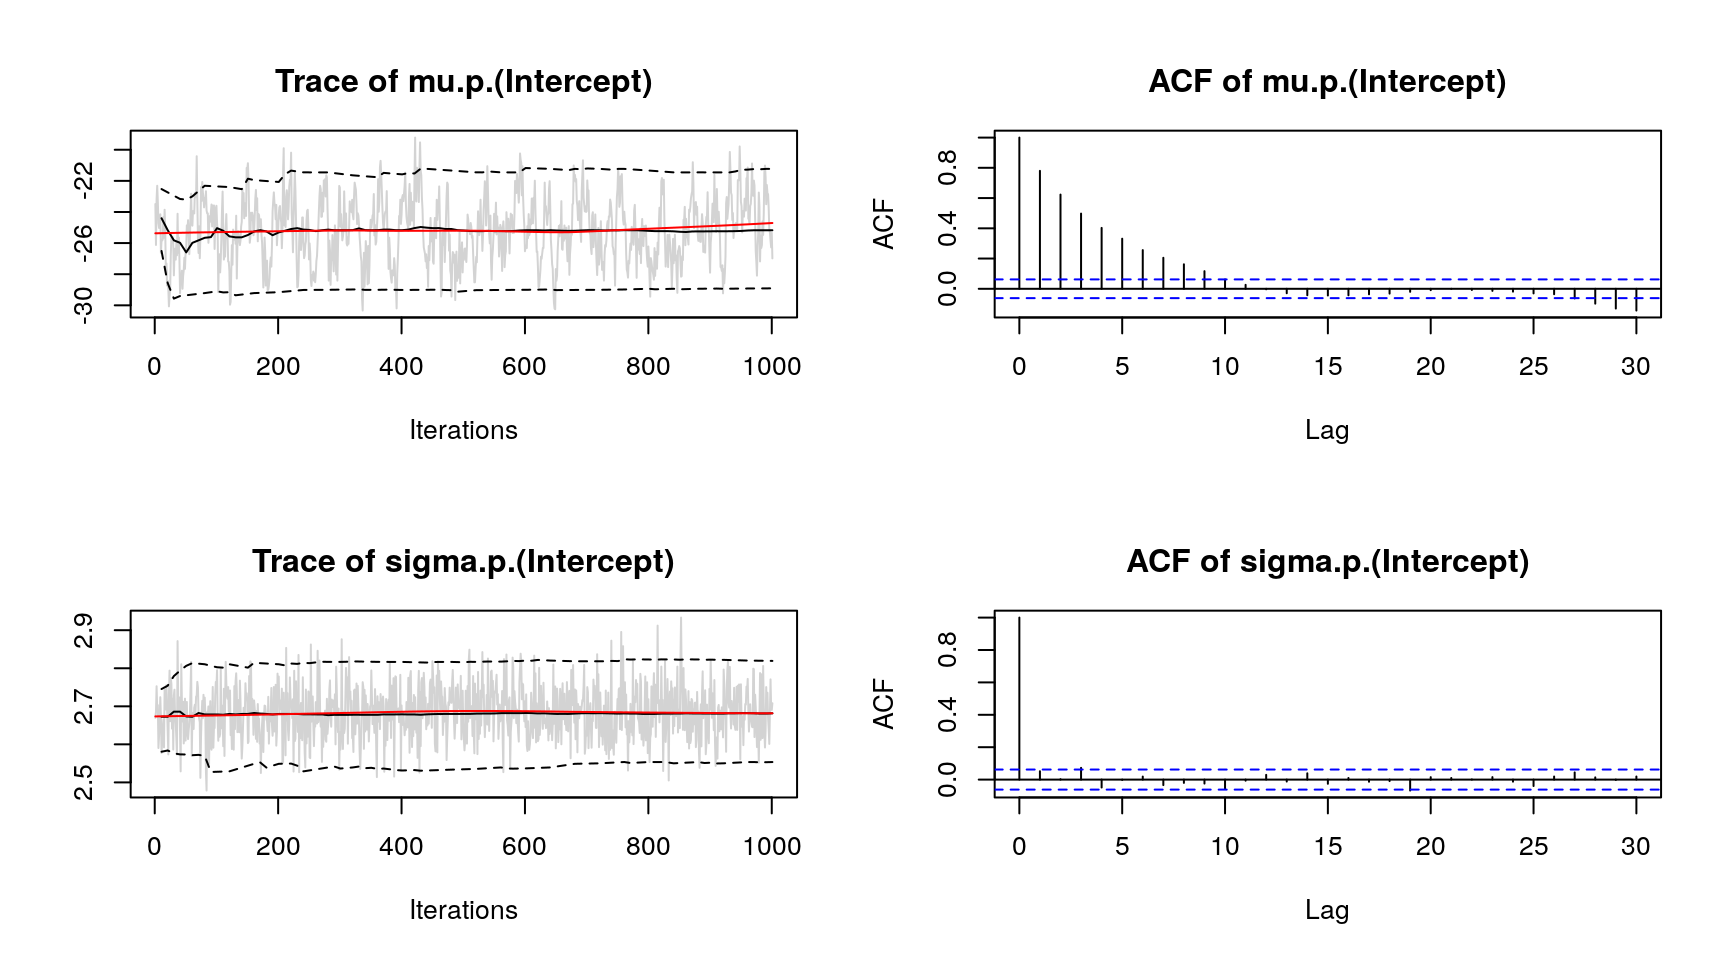
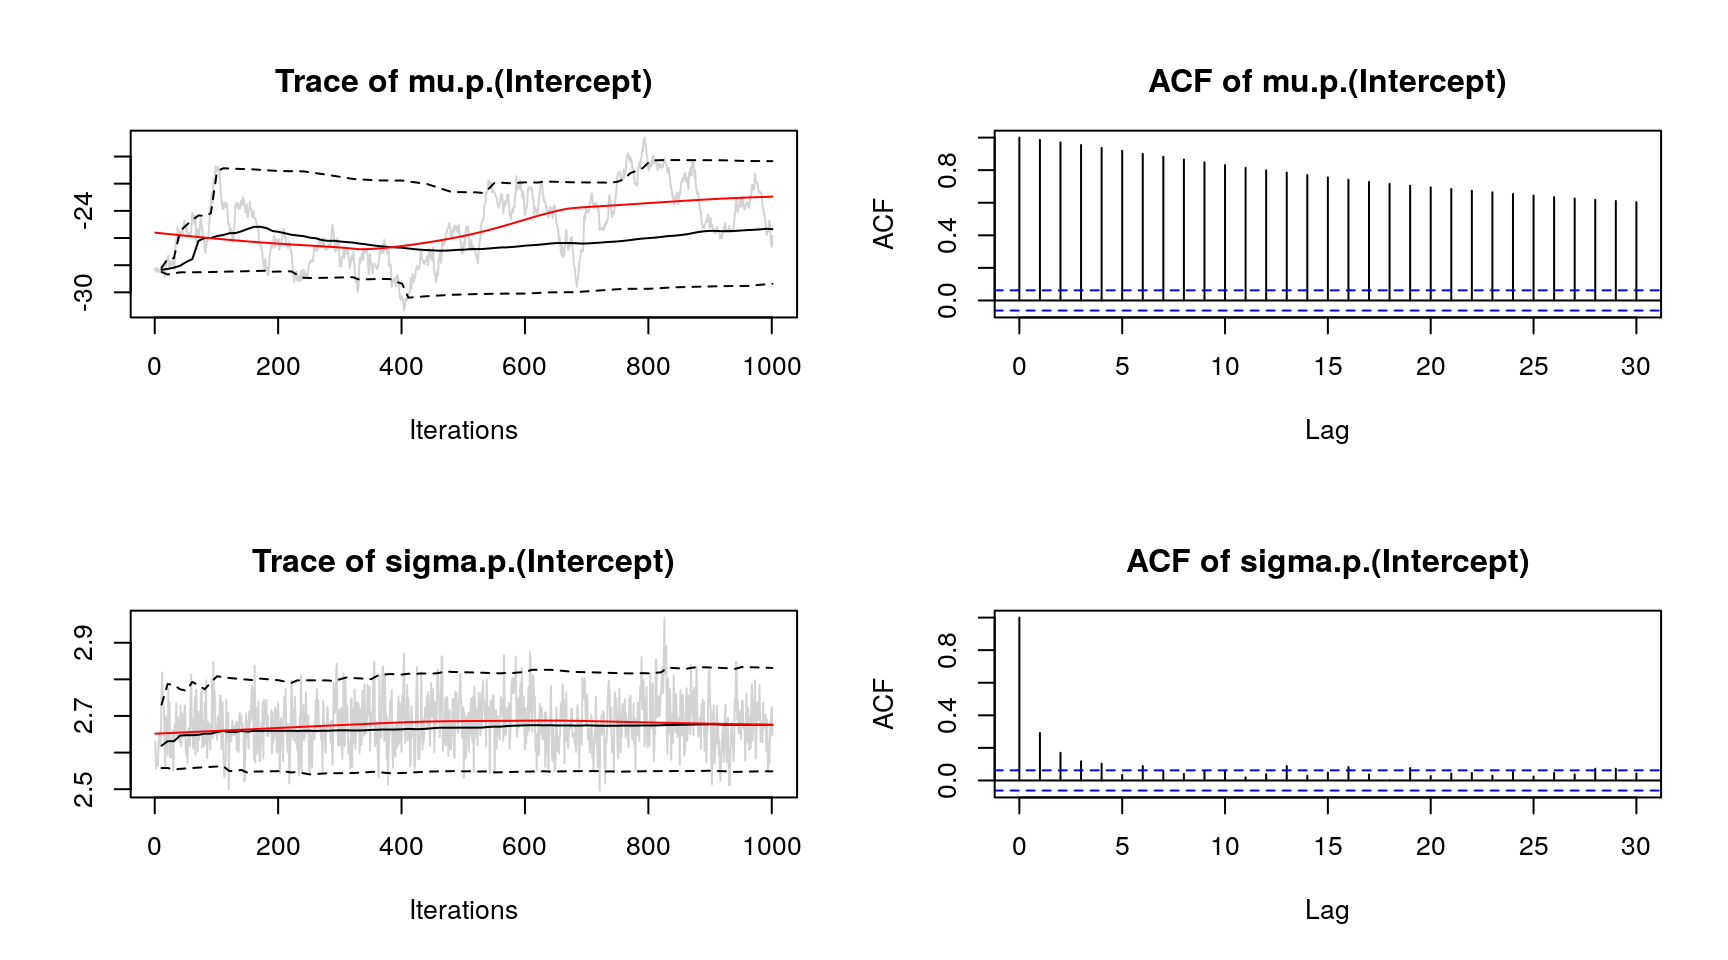
git-svn-id: svn://svn.r-forge.r-project.org/svnroot/bayesr@3385 edb9625f-4e0d-4859-8d74-9fd3b1da38cb

diff --git a/www/articles/bamlss.html b/www/articles/bamlss.html
@@ -216,13 +216,13 @@ b1 &lt;-<span class="st"> </span><span class="kw"><a href="../reference/bamlss.h
 ## Sampler summary:
 ## -
 ## DIC = 408.9675 logLik = -201.0372 pd = 6.8932
-## runtime = 1.522
+## runtime = 1.279
 ## ---
 ## Optimizer summary:
 ## -
 ## AICc = 409.6319 converged = 1 edf = 7
 ## logLik = -197.4745 logPost = -252.2614 nobs = 172
-## runtime = 0.014
+## runtime = 0.011
 ## ---</code></pre>
 <p>indicating high acceptance rates as reported by the <code>alpha</code> parameter in the linear model output, which is a sign of good mixing of the MCMC chains. The mixing can also be inspected graphically by</p>
 <div class="sourceCode"><pre class="sourceCode r"><code class="sourceCode r"><span class="kw"><a href="https://www.rdocumentation.org/packages/graphics/topics/plot">plot</a></span>(b1, <span class="dt">which =</span> <span class="st">"samples"</span>)</code></pre></div>
@@ -309,19 +309,17 @@ ylim &lt;-<span class="st"> </span><span class="kw"><a href="https://www.rdocume
 \texttt{accel} \sim \mathcal{N}(\mu = f(\texttt{times}), \log(\sigma) = f(\texttt{times}))
 \]</span> we use the following model formula</p>
 <div class="sourceCode"><pre class="sourceCode r"><code class="sourceCode r">f &lt;-<span class="st"> </span><span class="kw"><a href="https://www.rdocumentation.org/packages/base/topics/list">list</a></span>(accel ~<span class="st"> </span><span class="kw">s</span>(times, <span class="dt">k =</span> <span class="dv">20</span>), sigma ~<span class="st"> </span><span class="kw">s</span>(times, <span class="dt">k =</span> <span class="dv">20</span>))</code></pre></div>
-<p>where <code>s()</code> is the smooth term constructor from the <em>mgcv</em> <span class="citation">(Wood 2019)</span>. Note, that formulae are provided as <code>list</code>s of formulae, i.e., each list entry represents one parameter of the response distribution. Also note that all smooth terms, i.e., <code>te()</code>, <code>ti()</code>, etc., are supported by <em>bamlss</em>. This way, it is also possible to incorporate user defined model terms. A full Bayesian model is the estimated with</p>
+<p>where <code>s()</code> is the smooth term constructor from the <em>mgcv</em> <span class="citation">(Wood 2019)</span>. Note, that formulae are provided as <code>list</code>s of formulae, i.e., each list entry represents one parameter of the response distribution. Also note that all smooth terms, i.e., <code>te()</code>, <code>ti()</code>, etc., are supported by <em>bamlss</em>. This way, it is also possible to incorporate user defined model terms. A fully Bayesian model is the estimated with</p>
 <div class="sourceCode"><pre class="sourceCode r"><code class="sourceCode r"><span class="kw"><a href="https://www.rdocumentation.org/packages/base/topics/Random">set.seed</a></span>(<span class="dv">123</span>)
 
-b &lt;-<span class="st"> </span><span class="kw"><a href="../reference/bamlss.html">bamlss</a></span>(f, <span class="dt">data =</span> mcycle, <span class="dt">family =</span> <span class="st">"gaussian"</span>,
-  <span class="dt">n.iter =</span> <span class="dv">12000</span>, <span class="dt">burnin =</span> <span class="dv">2000</span>, <span class="dt">thin =</span> <span class="dv">10</span>)</code></pre></div>
-<p>using <code>12000</code> iterations for the MCMC chain, a burnin of <code>2000</code> (dropped samples) and a thinning of <code>10</code>, i.e., only every 10th sample is saved. Note that per defaul <code><a href="../reference/bamlss.html">bamlss()</a></code> uses a backfitting algorithm to compute posterior mode estimates, afterwards these estimates are used as starting values for the MCMC chains. The returned object is of class <code>"bamlss"</code> for which generic extractor functions like <code><a href="https://www.rdocumentation.org/packages/base/topics/summary">summary()</a></code>, <code><a href="https://www.rdocumentation.org/packages/graphics/topics/plot">plot()</a></code>, <code><a href="https://www.rdocumentation.org/packages/stats/topics/predict">predict()</a></code>, etc., are provided. For example, the estimated effects for distribution paramaters <code>mu</code> and <code>sigma</code> can be visualized by</p>
+b &lt;-<span class="st"> </span><span class="kw"><a href="../reference/bamlss.html">bamlss</a></span>(f, <span class="dt">data =</span> mcycle, <span class="dt">family =</span> <span class="st">"gaussian"</span>)</code></pre></div>
+<p>using the default of 1200 iterations of the MCMC sampler to obtain first results quickly (see the documentation <code><a href="http://bayesr.R-Forge.R-project.org/reference/GMCMC.html">GMCMC()</a></code> for further details on tuning parameters). Note that per default <code><a href="http://bayesr.R-Forge.R-project.org/reference/bamlss.html">bamlss()</a></code> uses a backfitting algorithm to compute posterior mode estimates, afterwards these estimates are used as starting values for the MCMC chains. The returned object is of class <code>"bamlss"</code> for which generic extractor functions like <code><a href="https://www.rdocumentation.org/packages/base/topics/summary">summary()</a></code>, <code><a href="https://www.rdocumentation.org/packages/graphics/topics/plot">plot()</a></code>, <code><a href="https://www.rdocumentation.org/packages/stats/topics/predict">predict()</a></code>, etc., are provided. For example, the estimated effects for distribution parameters <code>mu</code> and <code>sigma</code> can be visualized by</p>
 <div class="sourceCode"><pre class="sourceCode r"><code class="sourceCode r"><span class="kw"><a href="https://www.rdocumentation.org/packages/graphics/topics/plot">plot</a></span>(b, <span class="dt">model =</span> <span class="kw"><a href="https://www.rdocumentation.org/packages/base/topics/c">c</a></span>(<span class="st">"mu"</span>, <span class="st">"sigma"</span>))</code></pre></div>
 <p><img src="bamlss_files/figure-html/unnamed-chunk-20-1.png" width="864" style="display: block; margin: auto;"> The model summary gives</p>
 <div class="sourceCode"><pre class="sourceCode r"><code class="sourceCode r"><span class="kw"><a href="https://www.rdocumentation.org/packages/base/topics/summary">summary</a></span>(b)</code></pre></div>
 <pre><code>## 
 ## Call:
-## bamlss(formula = f, family = "gaussian", data = mcycle, n.iter = 12000, 
-##     burnin = 2000, thin = 10)
+## bamlss(formula = f, family = "gaussian", data = mcycle)
 ## ---
 ## Family: gaussian 
 ## Link function: mu = identity, sigma = log
@@ -332,14 +330,14 @@ b &lt;-<span class="st"> </span><span class="kw"><a href="../reference/bamlss.ht
 ## -
 ## Parametric coefficients:
 ##               Mean   2.5%    50%  97.5% parameters
-## (Intercept) -25.17 -28.91 -25.18 -21.23     -25.14
+## (Intercept) -25.13 -29.36 -25.35 -20.34     -25.14
 ## alpha         1.00   1.00   1.00   1.00         NA
 ## -
 ## Smooth terms:
 ##                     Mean      2.5%       50%     97.5% parameters
-## s(times).tau21 425085.57 174273.68 375068.34 937318.30   209333.1
+## s(times).tau21 425657.47 175634.81 372121.15 914429.32   209333.1
 ## s(times).alpha      1.00      1.00      1.00      1.00         NA
-## s(times).edf       14.24     12.54     14.25     15.92       13.6
+## s(times).edf       14.24     12.64     14.22     15.97       13.6
 ## ---
 ## Formula sigma:
 ## ---
@@ -347,49 +345,71 @@ b &lt;-<span class="st"> </span><span class="kw"><a href="../reference/bamlss.ht
 ## -
 ## Parametric coefficients:
 ##               Mean   2.5%    50%  97.5% parameters
-## (Intercept) 2.6841 2.5535 2.6816 2.8193      2.581
-## alpha       0.9665 0.7364 0.9997 1.0000         NA
+## (Intercept) 2.6800 2.5487 2.6757 2.8311      2.581
+## alpha       0.9664 0.7510 1.0000 1.0000         NA
 ## -
 ## Smooth terms:
 ##                     Mean      2.5%       50%     97.5% parameters
-## s(times).tau21 1.328e+02 1.408e+01 1.043e+02 4.142e+02     81.399
-## s(times).alpha 5.040e-01 1.287e-04 4.576e-01 1.000e+00         NA
-## s(times).edf   9.107e+00 5.706e+00 9.166e+00 1.234e+01      8.675
+## s(times).tau21 1.458e+02 2.384e+01 1.213e+02 4.604e+02     81.399
+## s(times).alpha 5.385e-01 7.903e-04 5.069e-01 1.000e+00         NA
+## s(times).edf   9.415e+00 6.491e+00 9.500e+00 1.259e+01      8.675
 ## ---
 ## Sampler summary:
 ## -
-## DIC = 1115.331 logLik = -545.6219 pd = 24.0874
-## runtime = 28.84
+## DIC = 1115.068 logLik = -545.2265 pd = 24.6149
+## runtime = 3.064
 ## ---
 ## Optimizer summary:
 ## -
 ## AICc = 1123.881 converged = 1 edf = 24.2716
 ## logLik = -531.9752 logPost = -747.4101 nobs = 133
-## runtime = 0.317
+## runtime = 0.301
 ## ---</code></pre>
 <p>showing, e.g., the acceptance probabilities of the MCMC chains (<code>alpha</code>), the estimated degrees of freedom of the optimizer and the successive sampler (<code>edf</code>), the final AIC and DIC as well as parametric model coefficients (in this case only the intercepts). As mentioned in the first example, using MCMC involves convergence checks of the sampled parameters. The easiest diagnostics are traceplots</p>
 <div class="sourceCode"><pre class="sourceCode r"><code class="sourceCode r"><span class="kw"><a href="https://www.rdocumentation.org/packages/graphics/topics/plot">plot</a></span>(b, <span class="dt">which =</span> <span class="st">"samples"</span>)</code></pre></div>
-<p><img src="bamlss_files/figure-html/unnamed-chunk-23-1.png" width="864" style="display: block; margin: auto;"> Note again that this call would show all traceplots, for convenience we only show the plots for the intercepts. In this case, the traceplots indicate convergence of the Markov chains (only the ACF for parameter <code>"mu"</code> still shows some autocorrelation, which could be further reduced, e.g., by increasing the thinning parameter). Further inspections are the maximum autocorrelation of all parameters, <code>which = "max-acf"</code>, besides other convergence diagnostics, e.g., diagnostics that are part of the <em>coda</em> package <span class="citation">(Plummer et al. 2006)</span>.</p>
+<p><img src="bamlss_files/figure-html/unnamed-chunk-23-1.png" width="864" style="display: block; margin: auto;"> Note again that this call would show all traceplots, for convenience we only show the plots for the intercepts. In this case, the traceplots do not indicate convergence of the Markov chains for parameter <code>"mu"</code>. To fix this, the number of iterations can be increased and also the burnin and thinning parameters can be adapted (see <code><a href="http://bayesr.R-Forge.R-project.org/reference/GMCMC.html">GMCMC()</a></code>). Further inspections are the maximum autocorrelation of all parameters, using <code><a href="http://bayesr.R-Forge.R-project.org/reference/plot.bamlss.html">plot.bamlss()</a></code> setting argument <code>which = "max-acf"</code>, besides other convergence diagnostics, e.g., diagnostics that are part of the <em>coda</em> package <span class="citation">(Plummer et al. 2006)</span>.</p>
 <p>Inspecting randomized quantile residuals <span class="citation">(Dunn and Smyth 1996)</span> is useful for judging how well the model fits to the data</p>
 <div class="sourceCode"><pre class="sourceCode r"><code class="sourceCode r"><span class="kw"><a href="https://www.rdocumentation.org/packages/graphics/topics/plot">plot</a></span>(b, <span class="dt">which =</span> <span class="kw"><a href="https://www.rdocumentation.org/packages/base/topics/c">c</a></span>(<span class="st">"hist-resid"</span>, <span class="st">"qq-resid"</span>))</code></pre></div>
-<p><img src="bamlss_files/figure-html/unnamed-chunk-25-1.png" width="768" style="display: block; margin: auto;"> Randomized quantile residuals are the default method in <em>bamlss</em>, which are computed using the cdf function of the corresponding family object.</p>
-<p>The posterior mean function for new data based on MCMC samples for parameter <span class="math inline">\(\mu\)</span> can be computed by</p>
+<p><img src="bamlss_files/figure-html/unnamed-chunk-25-1.png" width="768" style="display: block; margin: auto;"> Randomized quantile residuals are the default method in <em>bamlss</em>, which are computed using the CDF function of the corresponding family object.</p>
+<p>The posterior mean including 95% credible intervals for new data based on MCMC samples for parameter <span class="math inline">\(\mu\)</span> can be computed by</p>
 <div class="sourceCode"><pre class="sourceCode r"><code class="sourceCode r">nd &lt;-<span class="st"> </span><span class="kw"><a href="https://www.rdocumentation.org/packages/base/topics/data.frame">data.frame</a></span>(<span class="st">"times"</span> =<span class="st"> </span><span class="kw"><a href="https://www.rdocumentation.org/packages/base/topics/seq">seq</a></span>(<span class="fl">2.4</span>, <span class="fl">57.6</span>, <span class="dt">length =</span> <span class="dv">100</span>))
-nd$p &lt;-<span class="st"> </span><span class="kw"><a href="https://www.rdocumentation.org/packages/stats/topics/predict">predict</a></span>(b, <span class="dt">newdata =</span> nd, <span class="dt">model =</span> <span class="st">"mu"</span>, <span class="dt">FUN =</span> mean)
-<span class="kw"><a href="../reference/plot2d.html">plot2d</a></span>(p ~<span class="st"> </span>times, <span class="dt">data =</span> nd)</code></pre></div>
-<p><img src="bamlss_files/figure-html/unnamed-chunk-27-1.png" width="60%" style="display: block; margin: auto;"> where argument <code>FUN</code> can be any function, e.g., a function computing credible intervals from the empirical quantiles of the MCMC samples</p>
-<div class="sourceCode"><pre class="sourceCode r"><code class="sourceCode r">foo &lt;-<span class="st"> </span>function(x) {
-  <span class="kw"><a href="https://www.rdocumentation.org/packages/stats/topics/quantile">quantile</a></span>(x, <span class="dt">probs =</span> <span class="kw"><a href="https://www.rdocumentation.org/packages/base/topics/c">c</a></span>(<span class="fl">0.025</span>, <span class="fl">0.5</span>, <span class="fl">0.975</span>))
+nd$ptimes &lt;-<span class="st"> </span><span class="kw"><a href="https://www.rdocumentation.org/packages/stats/topics/predict">predict</a></span>(b, <span class="dt">newdata =</span> nd, <span class="dt">model =</span> <span class="st">"mu"</span>, <span class="dt">FUN =</span> c95)
+<span class="kw"><a href="../reference/plot2d.html">plot2d</a></span>(ptimes ~<span class="st"> </span>times, <span class="dt">data =</span> nd)</code></pre></div>
+<p><img src="bamlss_files/figure-html/unnamed-chunk-27-1.png" width="60%" style="display: block; margin: auto;"> and as above in the first example, argument <code>FUN</code> can be any function, e.g., the <code><a href="https://www.rdocumentation.org/packages/base/topics/identity">identity()</a></code> function could be used to calculate other statistics of the distribution, e.g., plot the estimated densities for each iteration of the MCMC sampler for <code>times = 10</code> and <code>times = 40</code>:</p>
+<div class="sourceCode"><pre class="sourceCode r"><code class="sourceCode r">## Predict for the two scenarios.
+nd &lt;-<span class="st"> </span><span class="kw"><a href="https://www.rdocumentation.org/packages/base/topics/data.frame">data.frame</a></span>(<span class="st">"times"</span> =<span class="st"> </span><span class="kw"><a href="https://www.rdocumentation.org/packages/base/topics/c">c</a></span>(<span class="dv">10</span>, <span class="dv">40</span>))
+ptimes &lt;-<span class="st"> </span><span class="kw"><a href="https://www.rdocumentation.org/packages/stats/topics/predict">predict</a></span>(b, <span class="dt">newdata =</span> nd, <span class="dt">FUN =</span> identity, <span class="dt">type =</span> <span class="st">"parameter"</span>)
+
+## Extract the family object.
+fam &lt;-<span class="st"> </span><span class="kw"><a href="https://www.rdocumentation.org/packages/stats/topics/family">family</a></span>(b)
+
+## Compute densities.
+dens &lt;-<span class="st"> </span><span class="kw"><a href="https://www.rdocumentation.org/packages/base/topics/list">list</a></span>(<span class="st">"t10"</span> =<span class="st"> </span><span class="ot">NULL</span>, <span class="st">"t40"</span> =<span class="st"> </span><span class="ot">NULL</span>)
+for(i in <span class="dv">1</span>:<span class="kw"><a href="https://www.rdocumentation.org/packages/base/topics/nrow">ncol</a></span>(ptimes$mu)) {
+  ## Densities for times = 10.
+  par &lt;-<span class="st"> </span><span class="kw"><a href="https://www.rdocumentation.org/packages/base/topics/list">list</a></span>(
+    <span class="st">"mu"</span> =<span class="st"> </span>ptimes$mu[<span class="dv">1</span>, i, <span class="dt">drop =</span> <span class="ot">TRUE</span>],
+    <span class="st">"sigma"</span> =<span class="st"> </span>ptimes$sigma[<span class="dv">1</span>, i, <span class="dt">drop =</span> <span class="ot">TRUE</span>]
+  )
+  dens$t10 &lt;-<span class="st"> </span><span class="kw"><a href="https://www.rdocumentation.org/packages/base/topics/cbind">cbind</a></span>(dens$t10, fam$<span class="kw">d</span>(mcycle$accel, par))
+
+  ## Densities for times = 40.
+  par &lt;-<span class="st"> </span><span class="kw"><a href="https://www.rdocumentation.org/packages/base/topics/list">list</a></span>(
+    <span class="st">"mu"</span> =<span class="st"> </span>ptimes$mu[<span class="dv">2</span>, i, <span class="dt">drop =</span> <span class="ot">TRUE</span>],
+    <span class="st">"sigma"</span> =<span class="st"> </span>ptimes$sigma[<span class="dv">2</span>, i, <span class="dt">drop =</span> <span class="ot">TRUE</span>]
+  )
+  dens$t40 &lt;-<span class="st"> </span><span class="kw"><a href="https://www.rdocumentation.org/packages/base/topics/cbind">cbind</a></span>(dens$t40, fam$<span class="kw">d</span>(mcycle$accel, par))
 }
-nd$p &lt;-<span class="st"> </span><span class="kw"><a href="https://www.rdocumentation.org/packages/stats/topics/predict">predict</a></span>(b, <span class="dt">newdata =</span> nd, <span class="dt">model =</span> <span class="st">"mu"</span>, <span class="dt">FUN =</span> foo)
-<span class="kw"><a href="https://www.rdocumentation.org/packages/base/topics/print">print</a></span>(<span class="kw"><a href="https://www.rdocumentation.org/packages/utils/topics/head">head</a></span>(nd))</code></pre></div>
-<pre><code>##      times    p.2.5%     p.50%    p.97.5%
-## 1 2.400000 -1.995477 -0.312000  1.8381633
-## 2 2.957576 -2.595392 -1.224777  0.2324195
-## 3 3.515152 -3.469704 -1.968816 -0.7212320
-## 4 4.072727 -4.264405 -2.432739 -1.0688515
-## 5 4.630303 -4.596901 -2.630091 -1.1079125
-## 6 5.187879 -4.416490 -2.561796 -1.0932878</code></pre>
+
+## Visualize.
+<span class="kw"><a href="https://www.rdocumentation.org/packages/graphics/topics/par">par</a></span>(<span class="dt">mar =</span> <span class="kw"><a href="https://www.rdocumentation.org/packages/base/topics/c">c</a></span>(<span class="fl">4.1</span>, <span class="fl">4.1</span>, <span class="fl">0.1</span>, <span class="fl">0.1</span>))
+<span class="kw"><a href="../reference/plot2d.html">plot2d</a></span>(dens$t10 ~<span class="st"> </span>accel, <span class="dt">data =</span> mcycle,
+  <span class="dt">col.lines =</span> <span class="kw"><a href="https://www.rdocumentation.org/packages/grDevices/topics/rgb">rgb</a></span>(<span class="dv">1</span>, <span class="dv">0</span>, <span class="dv">0</span>, <span class="dt">alpha =</span> <span class="fl">0.05</span>),
+  <span class="dt">ylab =</span> <span class="st">"Density"</span>)
+<span class="kw"><a href="../reference/plot2d.html">plot2d</a></span>(dens$t40 ~<span class="st"> </span>accel, <span class="dt">data =</span> mcycle,
+  <span class="dt">col.lines =</span> <span class="kw"><a href="https://www.rdocumentation.org/packages/grDevices/topics/rgb">rgb</a></span>(<span class="dv">0</span>, <span class="dv">0</span>, <span class="dv">1</span>, <span class="dt">alpha =</span> <span class="fl">0.05</span>),
+  <span class="dt">add =</span> <span class="ot">TRUE</span>)</code></pre></div>
+<p><img src="bamlss_files/figure-html/unnamed-chunk-28-1.png" width="60%" style="display: block; margin: auto;"></p>
 </div>
 <div id="references" class="section level2 unnumbered">
 <h2 class="hasAnchor">
